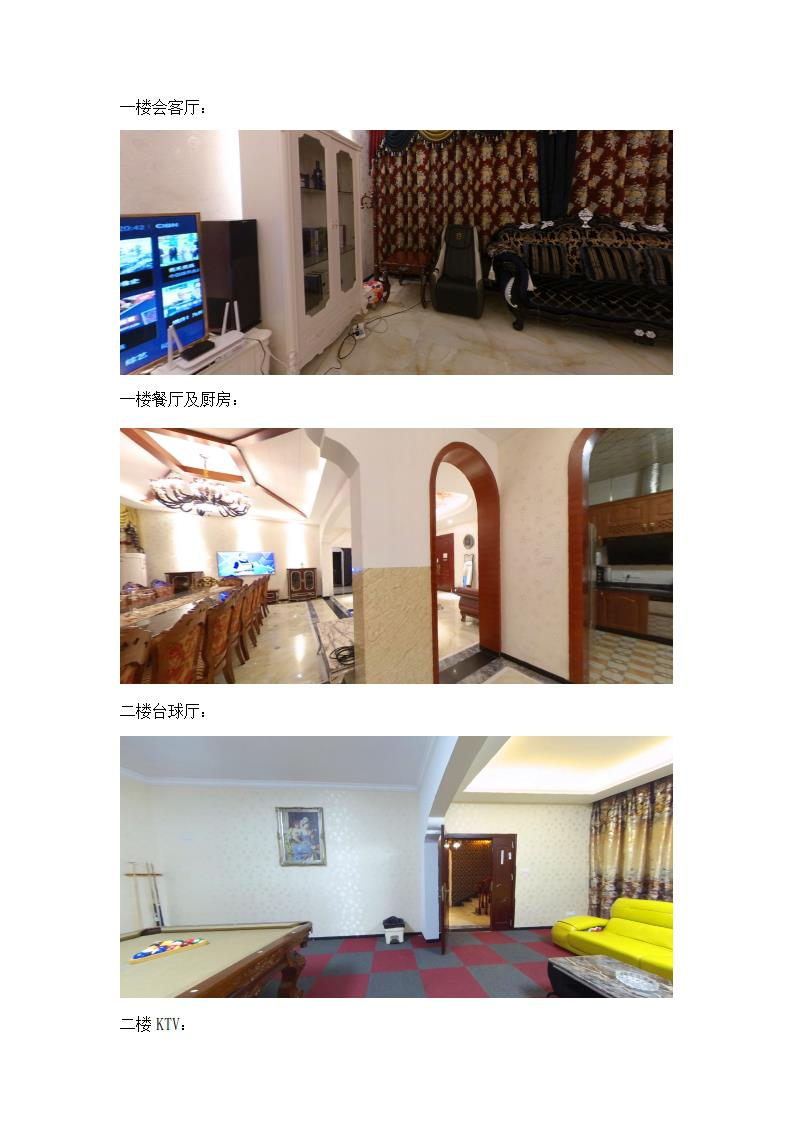
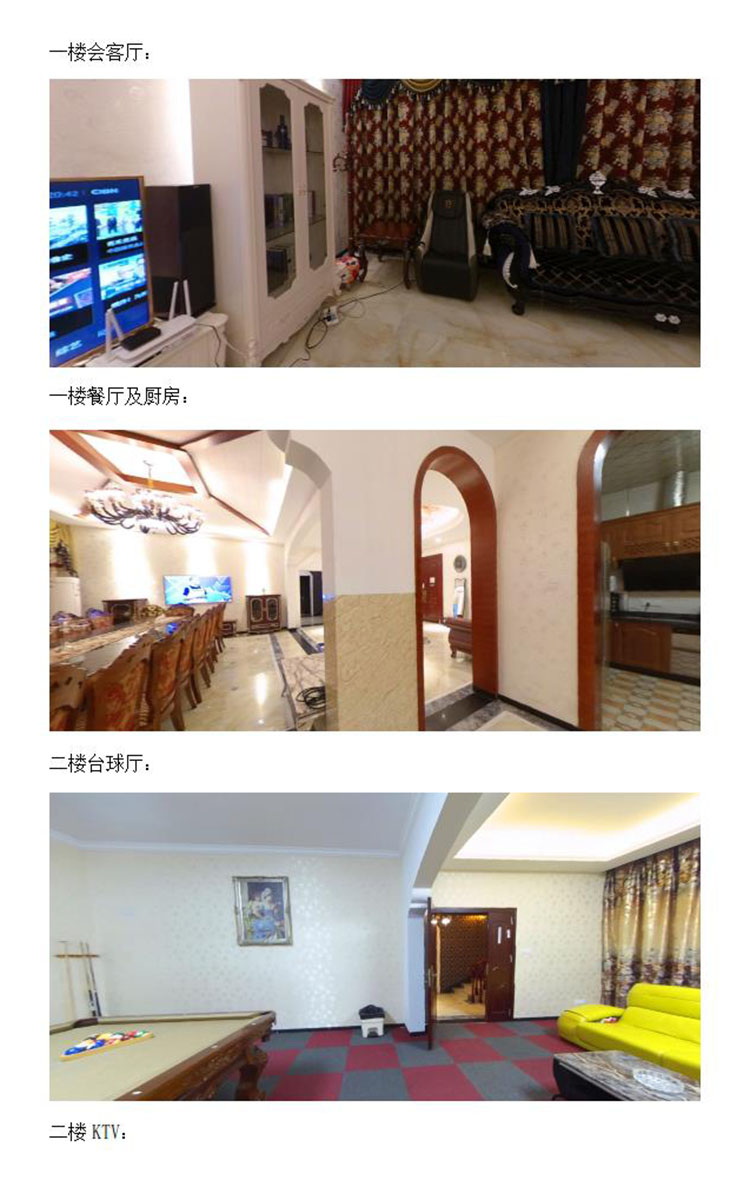
EDIT

diff --git a/eason/index.html b/eason/index.html
@@ -38,7 +38,7 @@
     </script>
     <style>
         body{
-            padding:0 0.2rem;
+            padding:0;
             max-width: 7.5rem;
             margin:0 auto;
         }
@@ -51,8 +51,9 @@
             font-size: 0.14rem;
         }
         .active-07-06 .img_list img{
-            width: 100%;
-            height: 100%;
+            width: 7.5rem;
+            /* height: 100%; */
+            /* transform: scale(1.3); */
         }
         .active-07-06 .button_list{
             width: 6.7rem;
